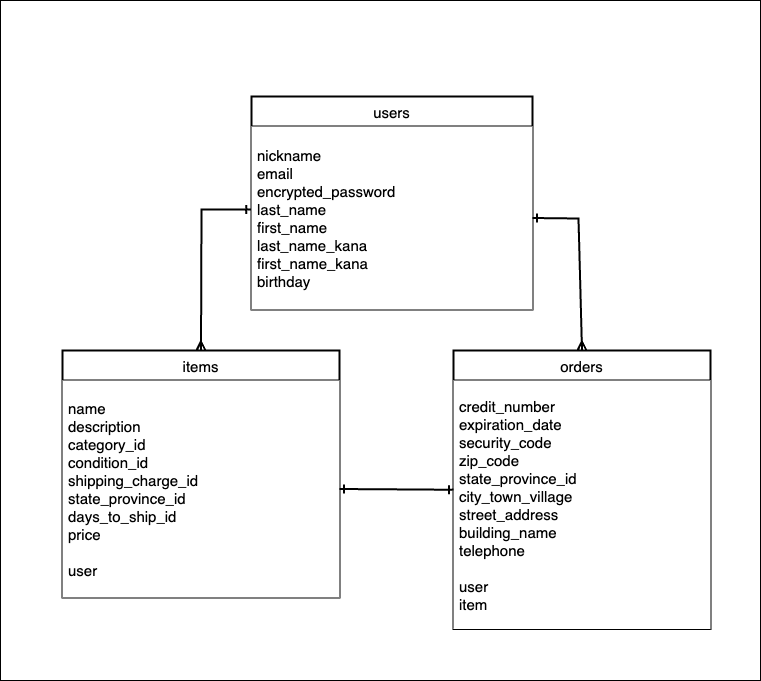
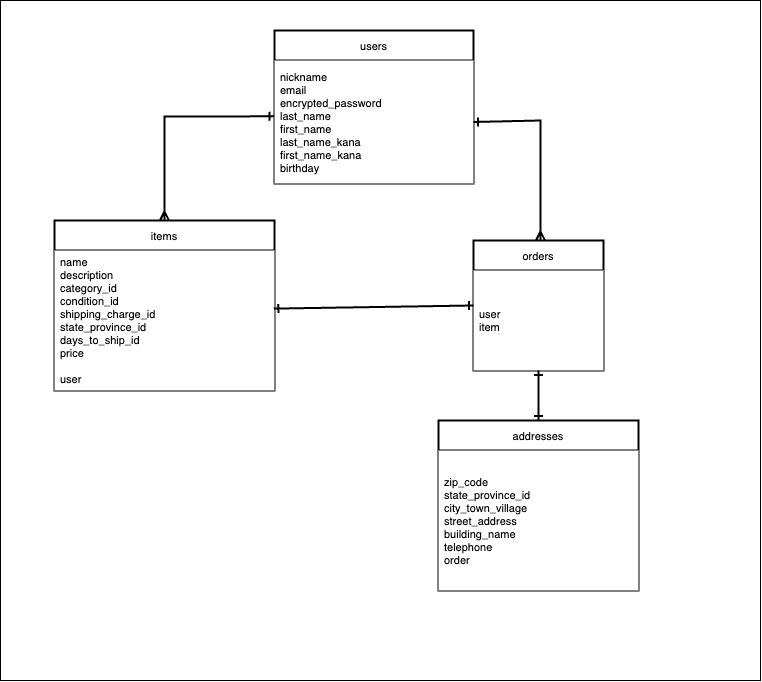
README修正

diff --git a/README.md b/README.md
@@ -2,16 +2,16 @@
 
 ## users テーブル
 
-| Column             | Type   | Options     |
-| ------------------ | ------ | ----------- |
-| nickname           | string | null: false |
-| email              | string | null: false |
-| encrypted_password | string | null: false |
-| last_name          | string | null: false |
-| first_name         | string | null: false |
-| last_name_kana     | string | null: false |
-| first_name_kana    | string | null: false |
-| birthday           | date   | null: false |
+| Column             | Type   | Options                   |
+| ------------------ | ------ | ------------------------- |
+| nickname           | string | null: false               |
+| email              | string | null: false, unique: true |
+| encrypted_password | string | null: false               |
+| last_name          | string | null: false               |
+| first_name         | string | null: false               |
+| last_name_kana     | string | null: false               |
+| first_name_kana    | string | null: false               |
+| birthday           | date   | null: false               |
 
 
 ### Association
@@ -35,27 +35,34 @@
 
 ### Association
 
-- belongs_to :users
-- has_one :orders
+- belongs_to :user
+- has_one :order
 
 ## orders テーブル
 
 | Column            | Type       | Options                        |
 | ----------------- | ---------- | ------------------------------ |
-| credit_number     | integer    | null: false                    |
-| expiration_date   | date       | null: false                    |
-| security_code     | integer    | null: false                    |
+| user              | references | null: false, foreign_key: true |
+| item              | references | null: false, foreign_key: true |
+
+### Association
+
+- belongs_to :user
+- belongs_to :item
+- has_one :address
+
+## addresses テーブル
+
+| Column            | Type       | Options                        |
+| ----------------- | ---------- | ------------------------------ |
 | zip_code          | integer    | null: false                    |
 | state_province_id | string     | null: false                    |
 | city_town_village | string     | null: false                    |
 | street_address    | string     | null: false                    |
 | building_name     | string     |                                |
 | telephone         | integer    | null: false                    |
-| user              | references | null: false, foreign_key: true |
-| item              | references | null: false, foreign_key: true |
+| order             | references | null: false, foreign_key: true |
 
 ### Association
-
-- belongs_to :users
-- belongs_to :items
+- belongs_to :order
 
